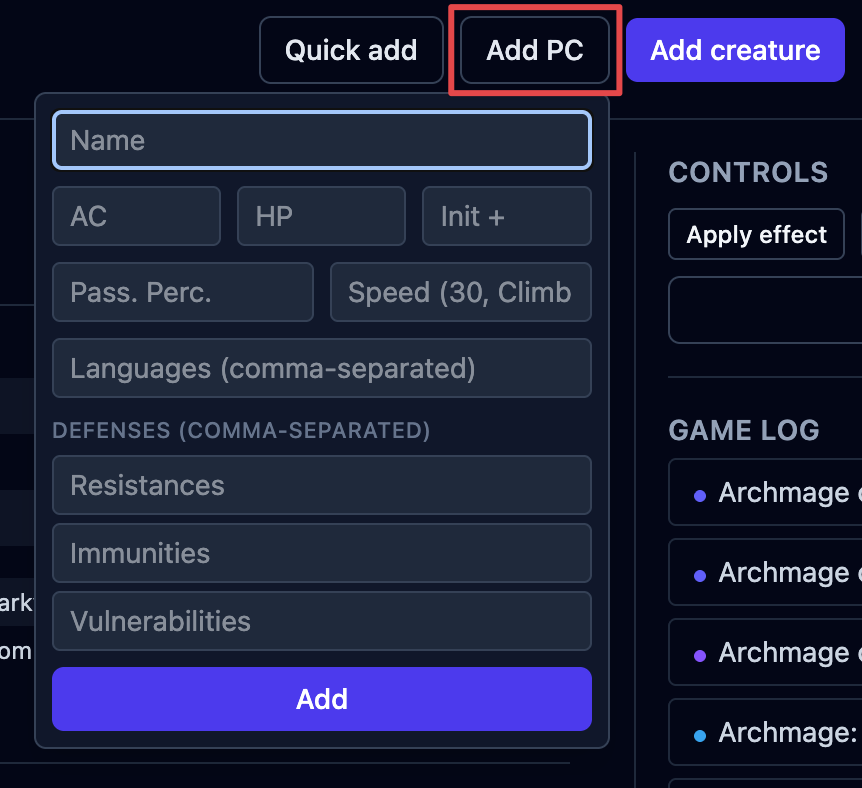
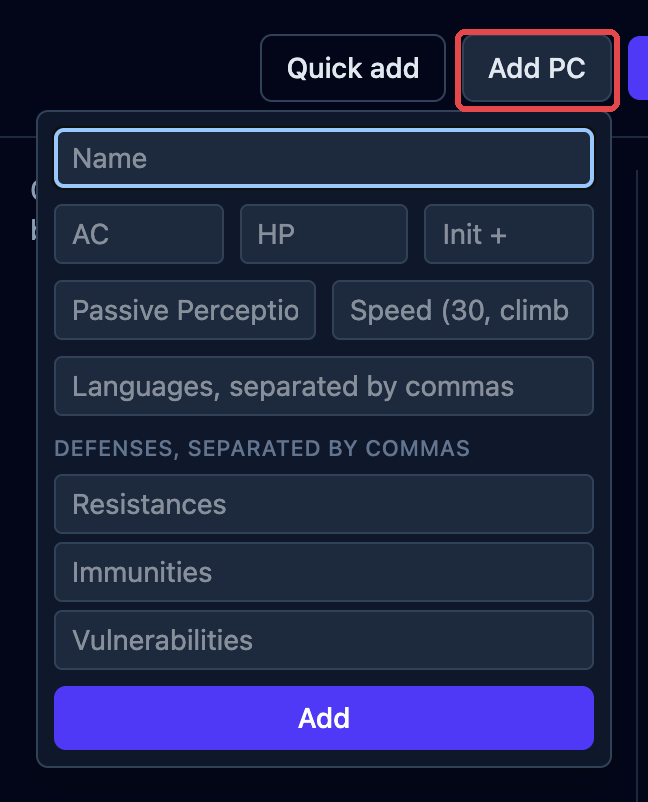
Docs: re-shoot eight more screenshots, add three missing ones
Stale: tracker-row, attack-resolve and dice-log all showed the old "Core Rules
2024" source line; add-pc-dropdown predated the Passive Perception and Speed
placeholder rewording; dice-log also used a one-off callout style (solid pills)
instead of the outlined labels every other capture uses.

New, replacing TODO comments: settings-panel and theme-toggle (settings.md), and
attack-advantage (attacks.md) — the last of which was referenced but had never
existed, so the image line sat commented out.

Arrows now approach through empty space rather than across chips and fields, so
nothing a reader needs is hidden under an annotation.

diff --git a/docs/src/content/docs/fight/attacks.md b/docs/src/content/docs/fight/attacks.md
@@ -28,7 +28,7 @@ Players roll their own attacks, you enter the result if needed.
    from [effects](/docs/fight/effects/), and shows the total against the target's armor
    class: **Hit** or **Miss**.
 
-![The attack box with a target picked, the to-hit result reading Hit, the rolled damage, and the Apply button outlined in red.](../../../assets/screens/attack-resolve.png)
+![The attack box with the target, the resolved roll reading Hit, and the Apply to Zara button outlined in red and labeled.](../../../assets/screens/attack-resolve.png)
 
 **Roll attack** becomes **Reroll** after the first roll, so you can roll again if you need
 to.
@@ -44,9 +44,7 @@ The video below shows a full attack flow, from clicking the action to applying t
 Above the roll button, the **Roll** setting is **Normal**, **Advantage**, or
 **Disadvantage**. Set it before you roll.
 
-<!-- TODO screenshot: attack-advantage.png — the Roll toggle in the attack box. Highlight: Normal / Advantage / Disadvantage. -->
-
-<!-- ![The Roll setting in the attack box, with Normal, Advantage and Disadvantage outlined in red.](../../../assets/screens/attack-advantage.png) -->
+![The Roll setting in the attack box, with Normal, Advantage and Disadvantage outlined in red and labeled.](../../../assets/screens/attack-advantage.png)
 
 This combines with any advantage or disadvantage already on the board from
 [effects](/docs/fight/effects/) — one of each cancels out. So if the target has an effect

diff --git a/docs/src/content/docs/reference/settings.md b/docs/src/content/docs/reference/settings.md
@@ -35,7 +35,7 @@ matches what you're playing.
 
 The choice is remembered in your browser, so it sticks whether or not you're signed in.
 
-<!-- TODO screenshot: settings-panel.png — the whole Settings panel. Highlight: the Libraries section and the browser-extension link. -->
+![The Settings panel, with the Libraries section and the Get it for Chrome link outlined in red and labeled.](../../../assets/screens/settings-panel.png)
 
 ## Light or dark
 
@@ -43,7 +43,7 @@ The **sun/moon** button in the top bar switches between light and dark. OpenFray
 by default. Your choice is remembered in your browser, and it's shared with the OpenFray
 website, so both match.
 
-<!-- TODO screenshot: theme-toggle.png — the light/dark toggle in the header. Highlight: the sun/moon button. -->
+![The sun button in the top bar, outlined in red and labeled Light or dark, beside Sign in and the gear.](../../../assets/screens/theme-toggle.png)
 
 ## The importer
 

diff --git a/docs/src/content/docs/reference/dice.md b/docs/src/content/docs/reference/dice.md
@@ -29,7 +29,7 @@ is written into the **log** on the right. Nothing is rolled in secret. You can a
 anything by hand from the bar along the bottom: type a formula like `2d6+3`, or tap a
 die.
 
-![The dice bar at the bottom of the screen and a log entry reading "1d20 [18] +2", both outlined in red.](../../../assets/screens/dice-log.png)
+![The dice bar at the bottom of the screen and a log entry reading "1d20 [16] +2", both outlined in red and labeled.](../../../assets/screens/dice-log.png)
 
 Each entry shows the dice that were rolled, in brackets, and what was added to them — so
 "is that right?" is answered by looking, not arguing. **View all** opens the full history,
